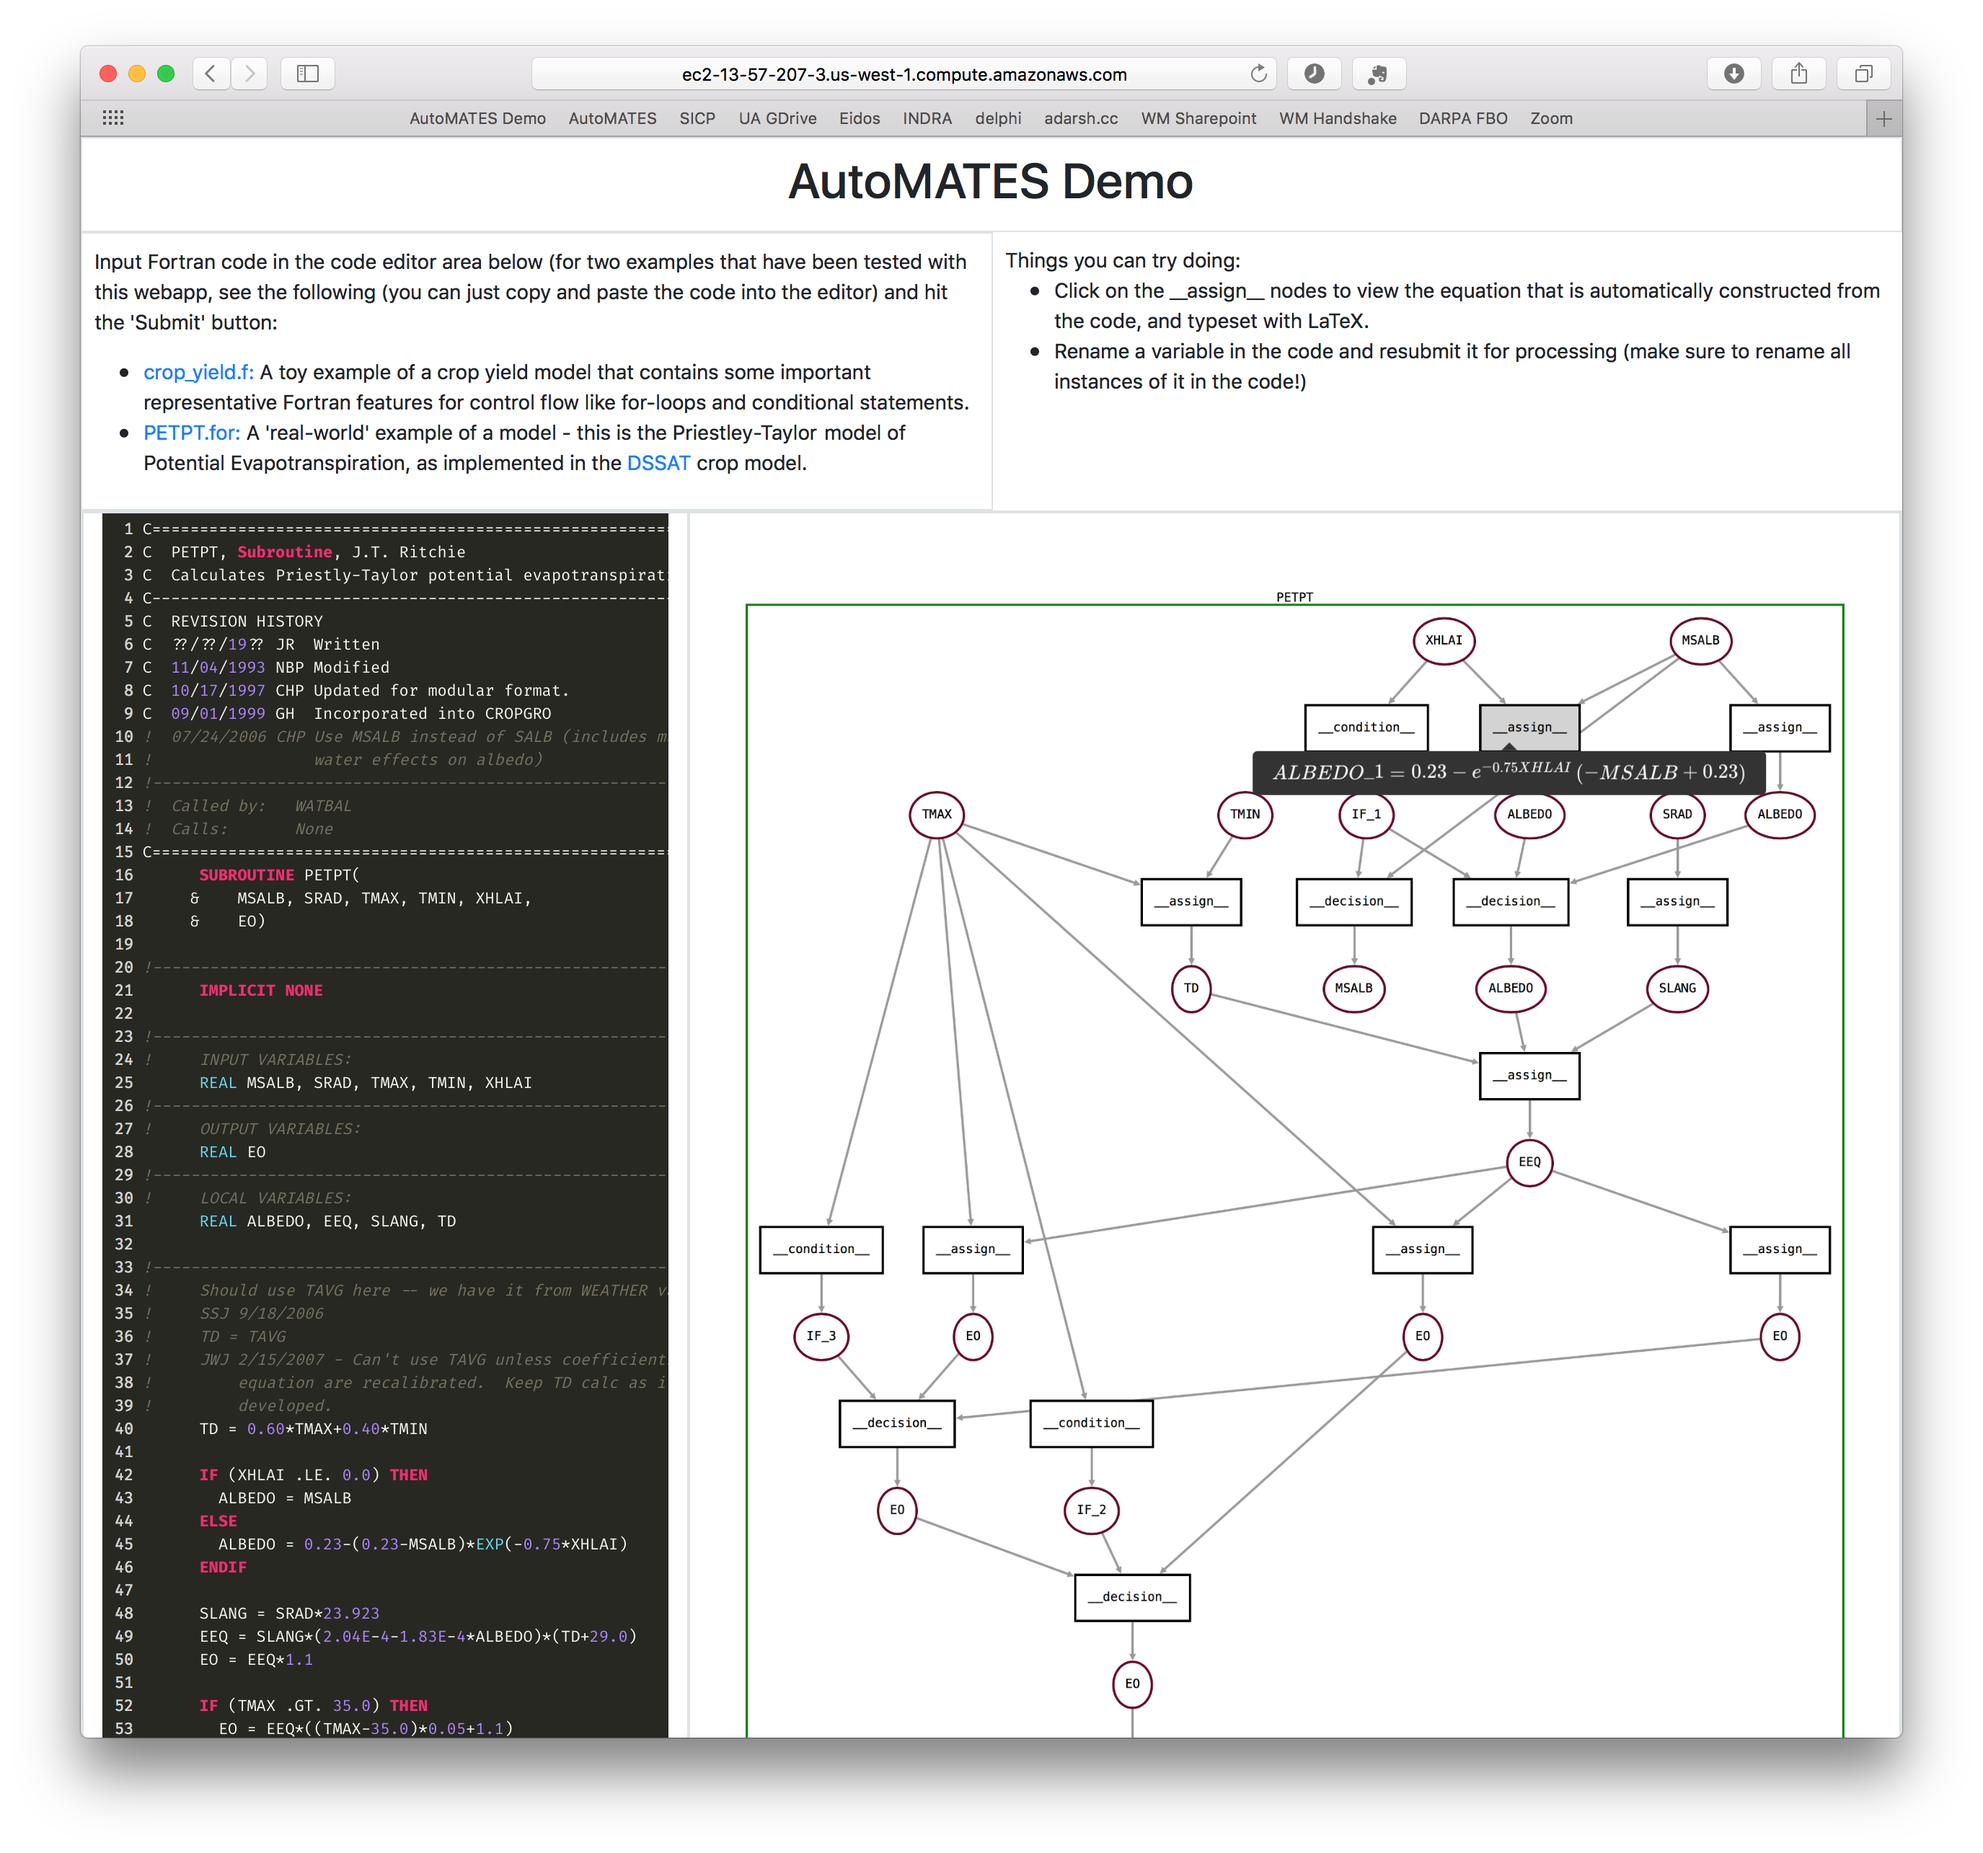
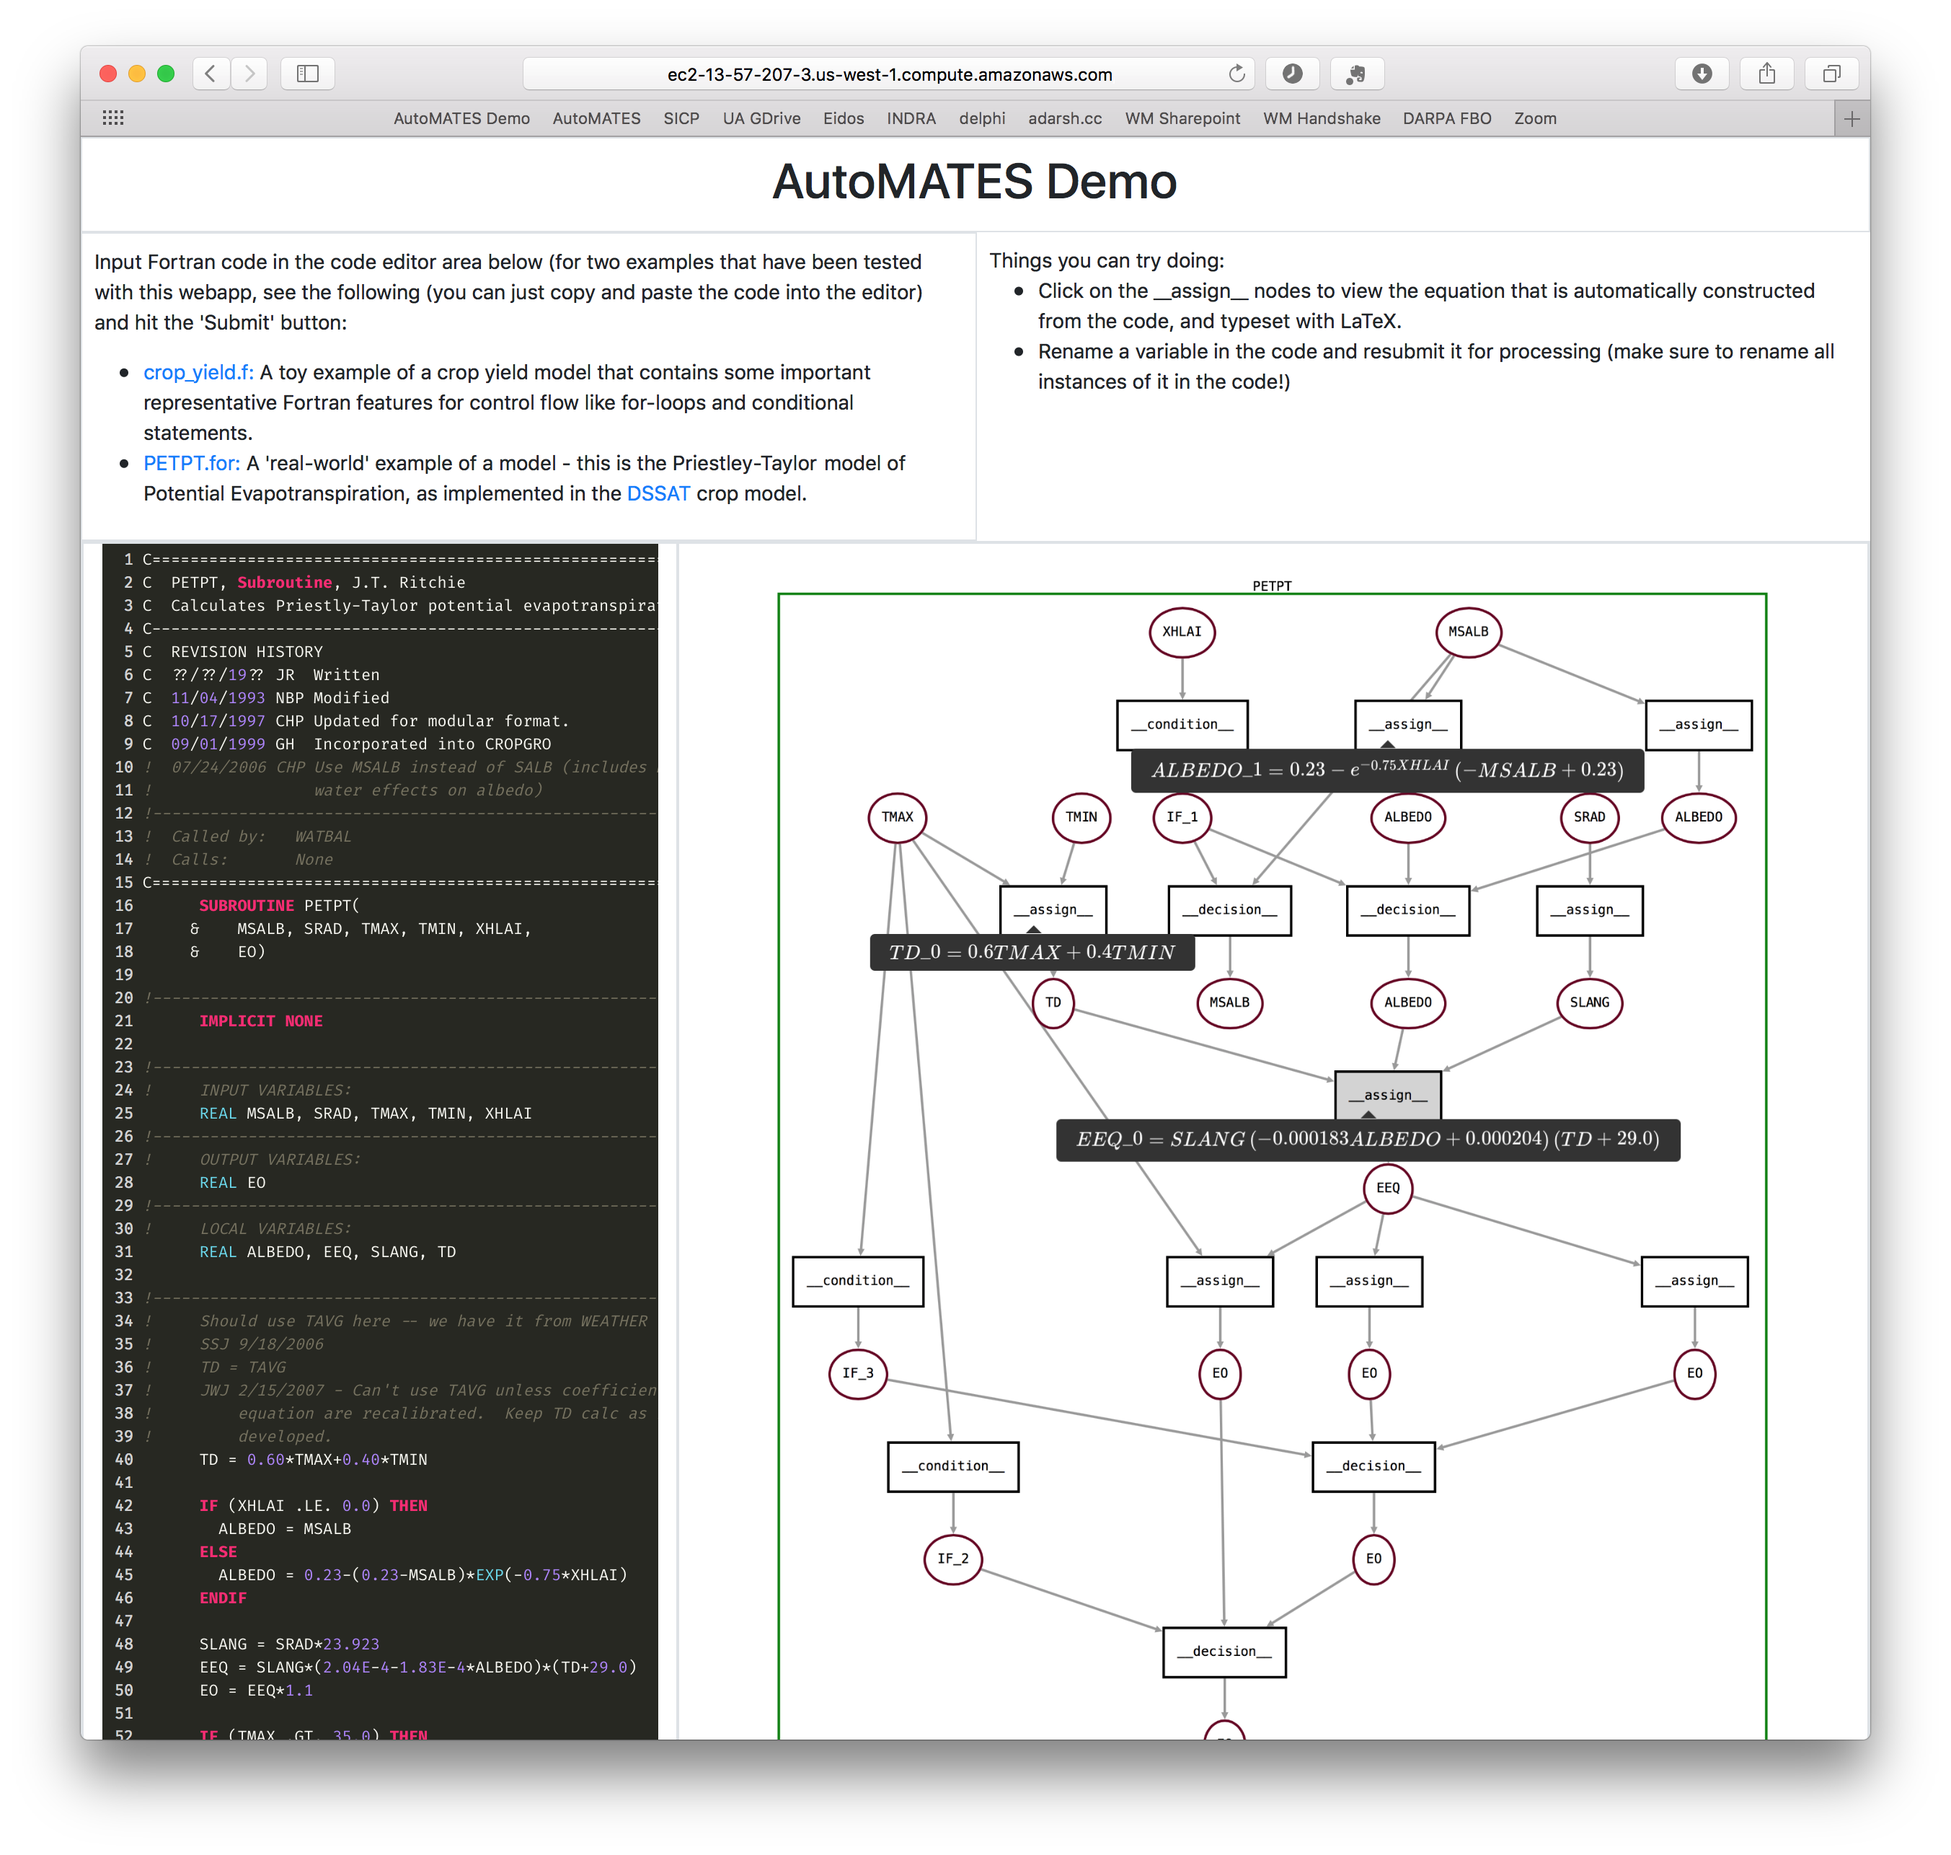
Added examples of matching equations with code in webapp section

diff --git a/documentation/reports/m3_report_prototype_system/webapp.md b/documentation/reports/m3_report_prototype_system/webapp.md
@@ -9,7 +9,23 @@ we encourage users as of now to experiment by modifying the two
 suggested examples on the page, rather than trying to process arbitrary
 Fortran programs. 
 
-Clicking on the assign nodes yields a LaTeX representation of the
+Clicking on the assign nodes yields a $$\LaTeX$$ representation of the
 equation corresponding to the assign statement. This equation is
 constructed using `SymPy`, and will facilitate the linkage to equations
 extracted from papers using the equation parsing module.
+
+For example - the screenshot above shows the analysis of the
+Priestley-Taylor method of calculating potential evapotranspiration, as
+implemented in DSSAT. A few of the `__assign__` functions have been
+clicked, showing a few tooltips with black backgrounds containing some
+of the equations involved in this calculation - these very equations can
+be found on page 46 of the book [Understanding Options for Agricultural
+Production](https://link-springer-com.ezproxy2.library.arizona.edu/book/10.1007%2F978-94-017-3624-4)
+(reproduced below - the equations matching the ones in the screenshot of
+thw webapp are highlighted with maroon borders).
+
+---
+
+![Page 46 of the book Understanding Options for Agricultural
+Production](figs/petpt_equations_example.png)
+
